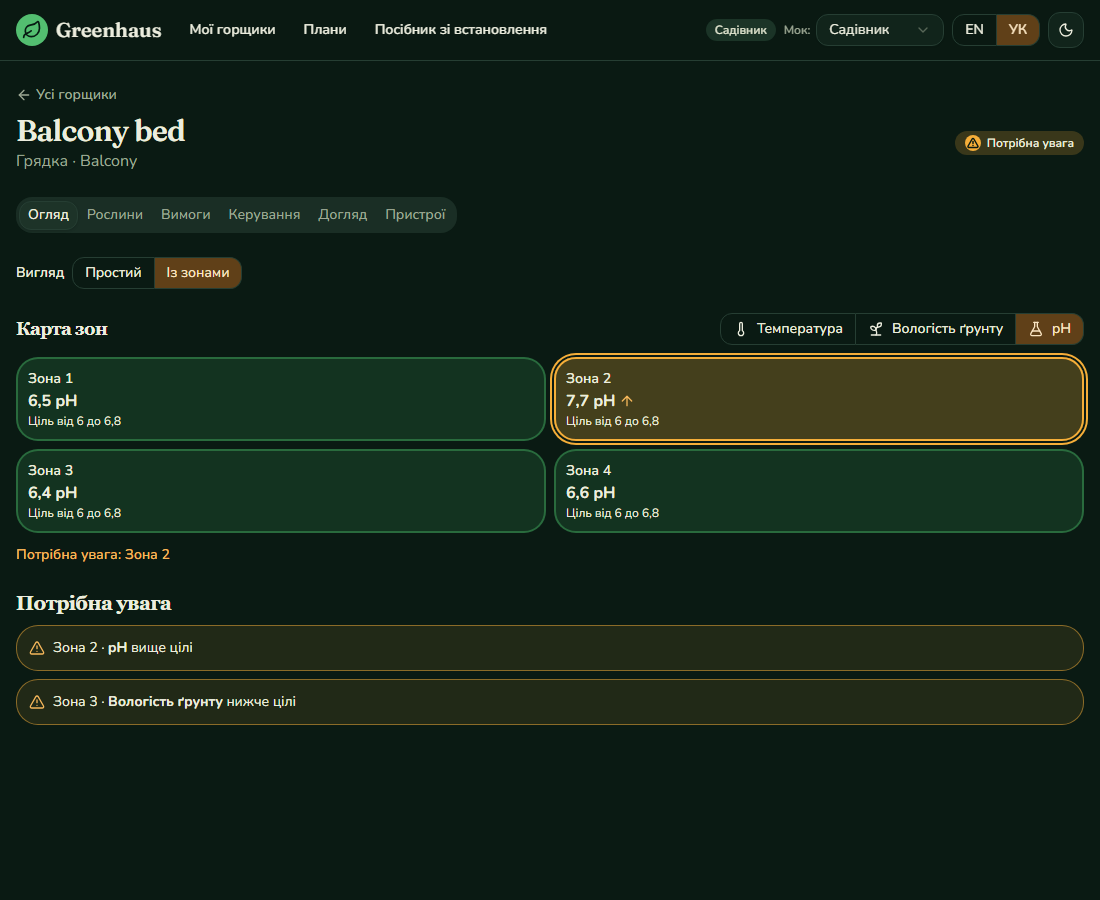
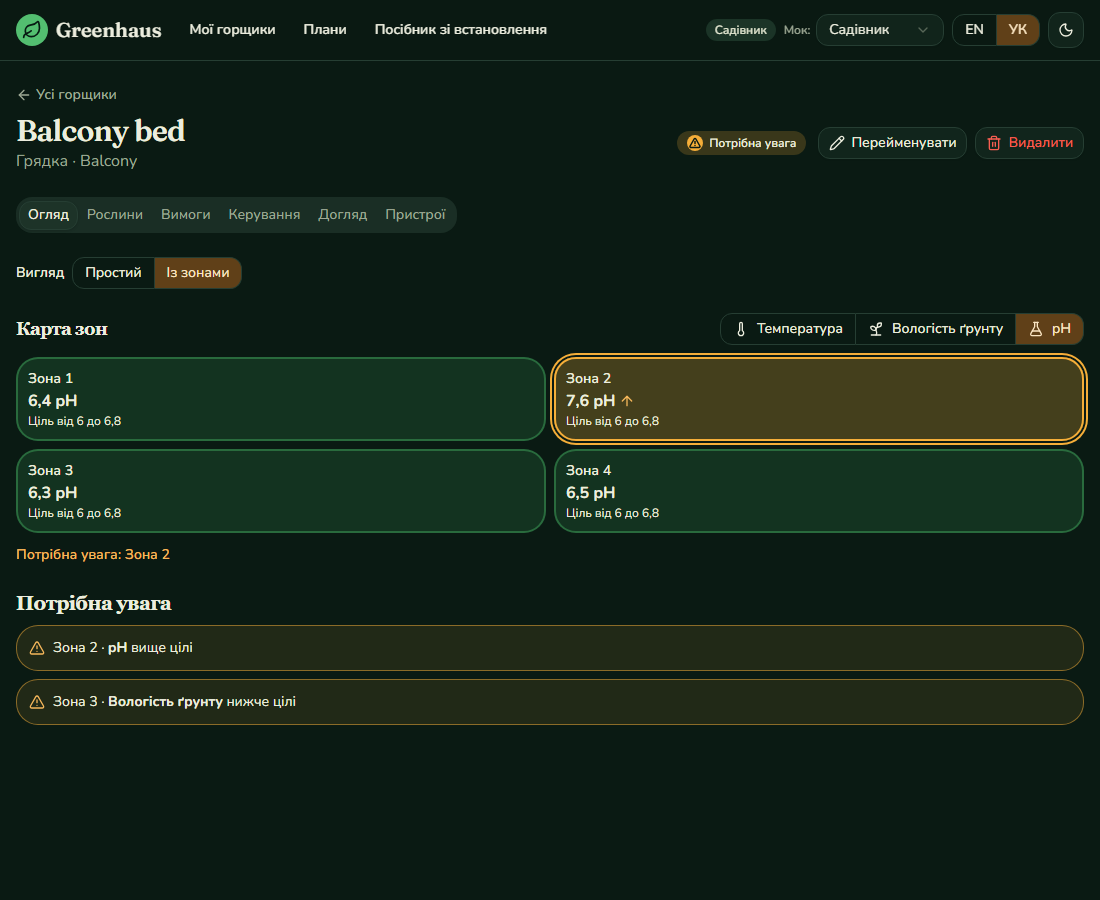
Document the finished app, add the requirements screenshot and a roadmap

Changed region(s): [[0.6182, 0.1244, 0.9891, 0.1867], [0.5255, 0.4356, 0.5564, 0.4667], [0.0309, 0.4356, 0.0618, 0.4667]]

diff --git a/apps/web/e2e/screenshots.spec.ts b/apps/web/e2e/screenshots.spec.ts
@@ -60,6 +60,16 @@ for (const look of looks) {
     await page.screenshot({ path: path.join(out, `controls-${look.name}.png`), fullPage: true })
   })
 
+  test(`requirements ${look.name}`, async ({ page }) => {
+    await page.setViewportSize({ width: 1100, height: 900 })
+    await open(page, '/', look)
+    await page.locator('a', { hasText: 'Window sill' }).click()
+    await page.locator('[role="tab"]').nth(2).click()
+    await page.waitForLoadState('networkidle')
+    await page.waitForTimeout(400)
+    await page.screenshot({ path: path.join(out, `requirements-${look.name}.png`), fullPage: true })
+  })
+
   test(`plans ${look.name}`, async ({ page }) => {
     await page.setViewportSize({ width: 1280, height: 900 })
     await open(page, '/plans', look, null)

diff --git a/apps/web/README.md b/apps/web/README.md
@@ -25,8 +25,8 @@ A small "Mock" selector in the header lets you act as the Novice, Gardener or Dr
 | Page | What it does |
 | --- | --- |
 | My pots | Every pot as a card. A pot in the zones view names its worst zone. Adding a pot past the plan limit opens an upsell with the tier that unlocks it |
-| A pot | Tabs for the overview (live readings, or the zone map), plants (with a conflict warning when plants disagree), requirements, controls, care tasks and linked controllers |
-| Controls | Mode per actuator, manual run, safety limits, a kill switch and the audit log of what the automation did. Refusals such as a missing thermal cutoff or calibration are explained |
+| A pot | Tabs for the overview (live readings, or the zone map), plants (with a conflict warning when plants disagree), requirements (editable ranges per metric, switch a metric off, start from what the plants suggest), controls, care tasks (including your own) and linked controllers. A pot can be renamed or deleted |
+| Controls | Mode per actuator, manual run, safety limits, a kill switch and the audit log of what the automation did. A missing thermal cutoff is explained, and a missing calibration opens the calibration form (dry and wet readings, for one sensor or all of them) |
 | Plans | The three tiers with their limits and prices, the current one marked. Choosing a plan subscribes through the billing mock (a demo switch simulates a declined card), the subscription can be cancelled, and a banner explains a purchase grant that is at risk |
 | Claim | The page the QR code opens: shows the device, asks for a pot and links it. Unshipped, expired, wrong and already-claimed codes get a clear explanation |
 | Set-up guide | The ready kit, a build-it-yourself parts list, the QR steps and the safety advice about overflow, siphoning and heaters |
@@ -40,12 +40,11 @@ docker compose up -d mock
 npm run e2e -w @greenhaus/web
 ```
 
-30 Playwright tests drive the real app against the mock: the overview, the zones view and metric switch, plan limits and the upsell, the heater guard and the kill switch, plants and care, plans, the whole QR claim flow, the language switch, and an **axe accessibility scan of every page in light English and dark Ukrainian**. The mock is reset before each test.
+38 Playwright tests drive the real app against the mock: the overview, the zones view and metric switch, plan limits and the upsell, the heater guard and the kill switch, plants and care, plans, editing requirements, the calibration flow, checkout, the whole QR claim flow, the language switch, and an **axe accessibility scan of every page in light English and dark Ukrainian**. The mock is reset before each test.
 
 Screenshots for the READMEs are produced by `SCREENSHOTS=1 npx playwright test screenshots`.
 
 ## Known gaps
 
 - No real sign-in yet. The mock does not check tokens, and Keycloak arrives with the real Greenhaus API.
-- Requirements are shown but cannot be edited yet. The editor component is not built.
 - Live updates poll every ten seconds. SignalR from Pulse comes with the real device platform.

diff --git a/README.md b/README.md
@@ -66,7 +66,7 @@ React app for pots, plants, controls, plans and the QR claim flow, in English an
 npm install                    # installs the web workspace
 docker compose up -d mock      # the mock backend on :8090
 npm run dev -w @greenhaus/web  # http://localhost:5174
-npm run e2e -w @greenhaus/web  # 30 end-to-end tests with an accessibility scan of every page
+npm run e2e -w @greenhaus/web  # 38 end-to-end tests with an accessibility scan of every page
 ```
 
 See [apps/web](apps/web/README.md) and [ADR 0002](docs/adr/0002-web-workspace-and-design-system-from-source.md).
@@ -90,6 +90,17 @@ docker compose up --build   # http://localhost:8090/api/greenhaus/v1
 dotnet test mock-server/GreenhausMock.slnx   # checks every response against the contract
 ```
 
+## Roadmap
+
+Done: contracts, the mock backend (Greenhaus, billing, Pulse), the design system and the product app, all contract-tested and covered by end-to-end tests.
+
+Waiting for the real services, which the app will use through the same contracts:
+
+- **Greenhaus API:** persistence, sign-in through Keycloak, tier enforcement, the outbox for `device.claimed.v1` and `limit.reached.v1`. The mock already shows how it must behave.
+- **Pulse:** live readings and commands over MQTT (the app polls every ten seconds today), and device allocation from order events.
+- **Docs-Brain:** an assistant panel scoped to a pot, with data access by tier.
+- **Orderflow:** Greenhaus kit products in its catalog (through its `Catalog:SeedFile`), and consuming `device.claimed.v1` to show an order as activated.
+- **Later:** achievements (last, by decision), the real billing service, an ESP32 sketch for the same MQTT topics.
 ## Licence
 
 MIT, see [LICENSE](LICENSE).
